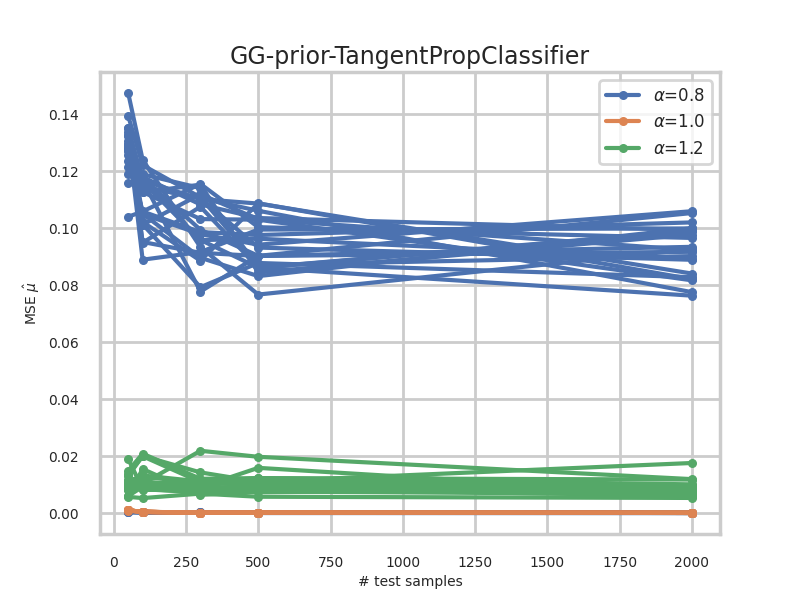
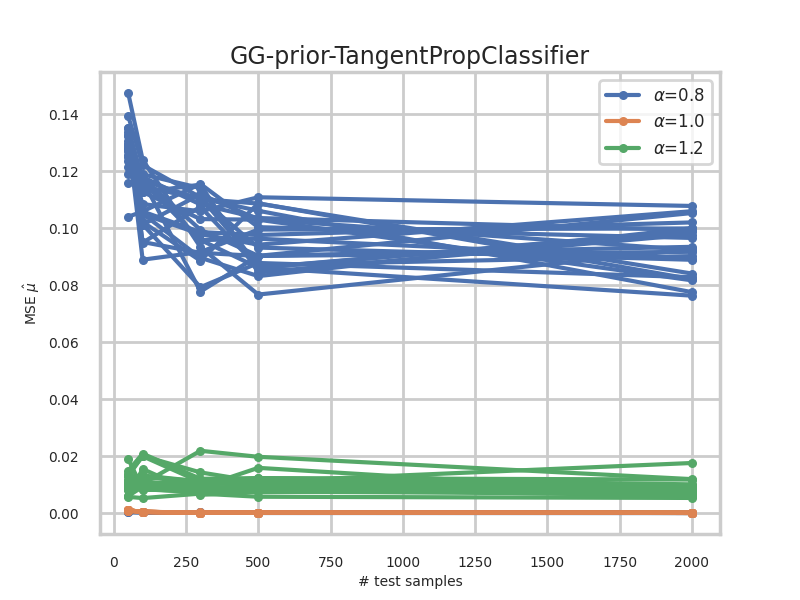
Update figures

Changed region(s): [[0.3125, 0.3, 0.875, 0.36], [0.2188, 0.33, 0.25, 0.36], [0.1562, 0.33, 0.1875, 0.36]]

diff --git a/Chapter5/chapter5.tex b/Chapter5/chapter5.tex
@@ -120,7 +120,7 @@ This is unexpected and cannot only be explained by the fact that the neural netw
   \end{subfigure}
 
   \begin{subfigure}[t]{0.49\linewidth}
-    \includegraphics[width=\linewidth]{COMPARE/GG-prior/Regressor/profusion_nominal_n_samples_mse.png}
+    \includegraphics[width=\linewidth]{COMPARE/GG-prior-plus/Regressor/profusion_nominal_n_samples_mse.png}
     \caption{Regressor}
     % \label{fig:gg-prior_GB_profusion_nominal_n_samples_mse}
   \end{subfigure}%
